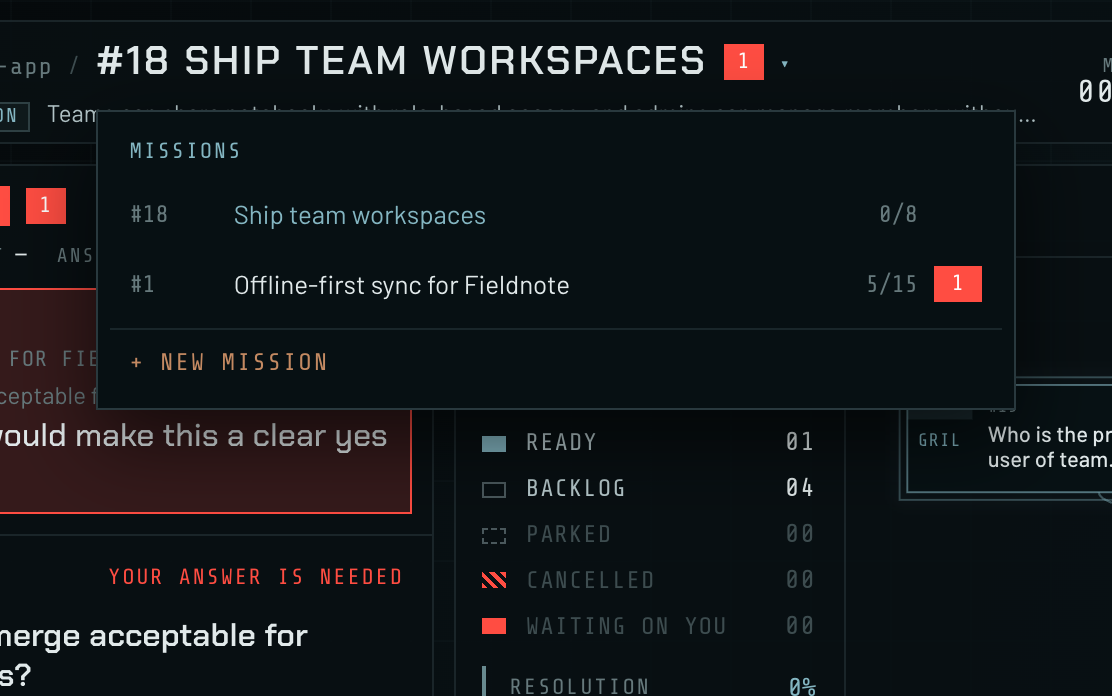
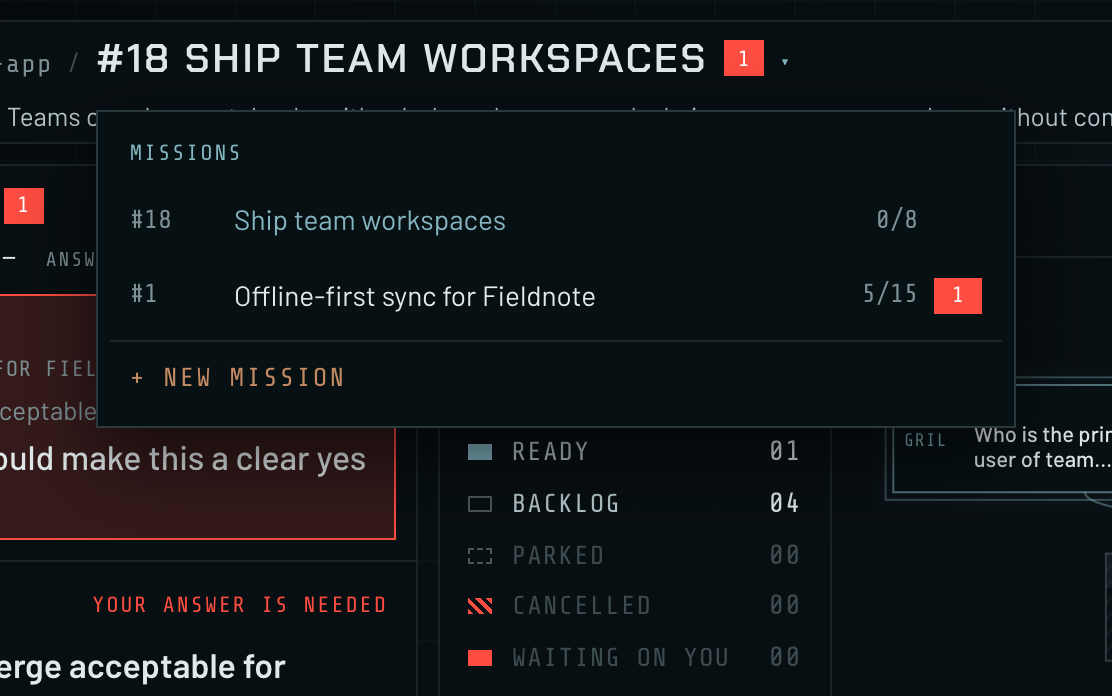
Landing: re-capture screenshots from the updated command center
New screenshots show the tidier type, unboxed labels and outlined buttons. The
mission and spend zone overlays follow the new header and sessions layout, and
the HITL shot is taken in a taller window so the whole draft resolution shows.

diff --git a/apps/landing/index.html b/apps/landing/index.html
@@ -430,8 +430,8 @@
               <div class="frame steps__panel" role="tabpanel" id="panel-3" aria-labelledby="tab-3" hidden>
                 <img
                   src="/media/flow-05-new-mission.png"
-                  width="1526"
-                  height="954"
+                  width="1576"
+                  height="984"
                   loading="lazy"
                   decoding="async"
                   alt="New mission form with title, destination, notes and mode."
@@ -450,8 +450,8 @@
               <div class="frame steps__panel" role="tabpanel" id="panel-5" aria-labelledby="tab-5" hidden>
                 <img
                   src="/media/flow-07-waiting-on-you.png"
-                  width="1444"
-                  height="902"
+                  width="1350"
+                  height="844"
                   loading="lazy"
                   decoding="async"
                   alt="An agent's question in the Waiting on you inbox with suggested replies."
@@ -481,7 +481,7 @@
                 />
                 <div class="zones__overlay" aria-hidden="true">
                   <span class="zone" data-zone="inbox" style="--x: 0.7; --y: 8.7; --w: 21.4; --h: 90.3"><b>1</b></span>
-                  <span class="zone" data-zone="mission" style="--x: 5.2; --y: 1.7; --w: 34.5; --h: 5.2"><b>2</b></span>
+                  <span class="zone" data-zone="mission" style="--x: 5.2; --y: 1.5; --w: 49; --h: 5.7"><b>2</b></span>
                   <span class="zone" data-zone="map" style="--x: 22.7; --y: 8.7; --w: 52.1; --h: 61.5"><b>3</b></span>
                   <span class="zone" data-zone="ticket" style="--x: 75.5; --y: 8.7; --w: 23.8; --h: 61.5"
                     ><b>4</b></span
@@ -493,7 +493,9 @@
                     ><b>6</b></span
                   >
                   <span class="zone" data-zone="plan" style="--x: 75.5; --y: 71.2; --w: 23.8; --h: 27.7"><b>7</b></span>
-                  <span class="zone" data-zone="spend" style="--x: 23.6; --y: 86; --w: 25.2; --h: 12.9"><b>8</b></span>
+                  <span class="zone" data-zone="spend" style="--x: 23.6; --y: 86.3; --w: 25.2; --h: 12.7"
+                    ><b>8</b></span
+                  >
                 </div>
               </figure>
               <ol class="zones__list">
@@ -775,8 +777,8 @@
             <figure class="frame row__media">
               <img
                 src="/media/command-center-hitl-conversation.png"
-                width="880"
-                height="550"
+                width="1140"
+                height="712"
                 loading="lazy"
                 decoding="async"
                 alt="An agent's draft resolution in the conversation panel, waiting for the operator to record it."
@@ -817,8 +819,8 @@
             <figure class="frame row__media">
               <img
                 src="/media/command-center-decisions.png"
-                width="1236"
-                height="772"
+                width="1276"
+                height="798"
                 loading="lazy"
                 decoding="async"
                 alt="The Decisions log listing every decision with its source and who decided, with one decision open showing its rationale and transcript."
